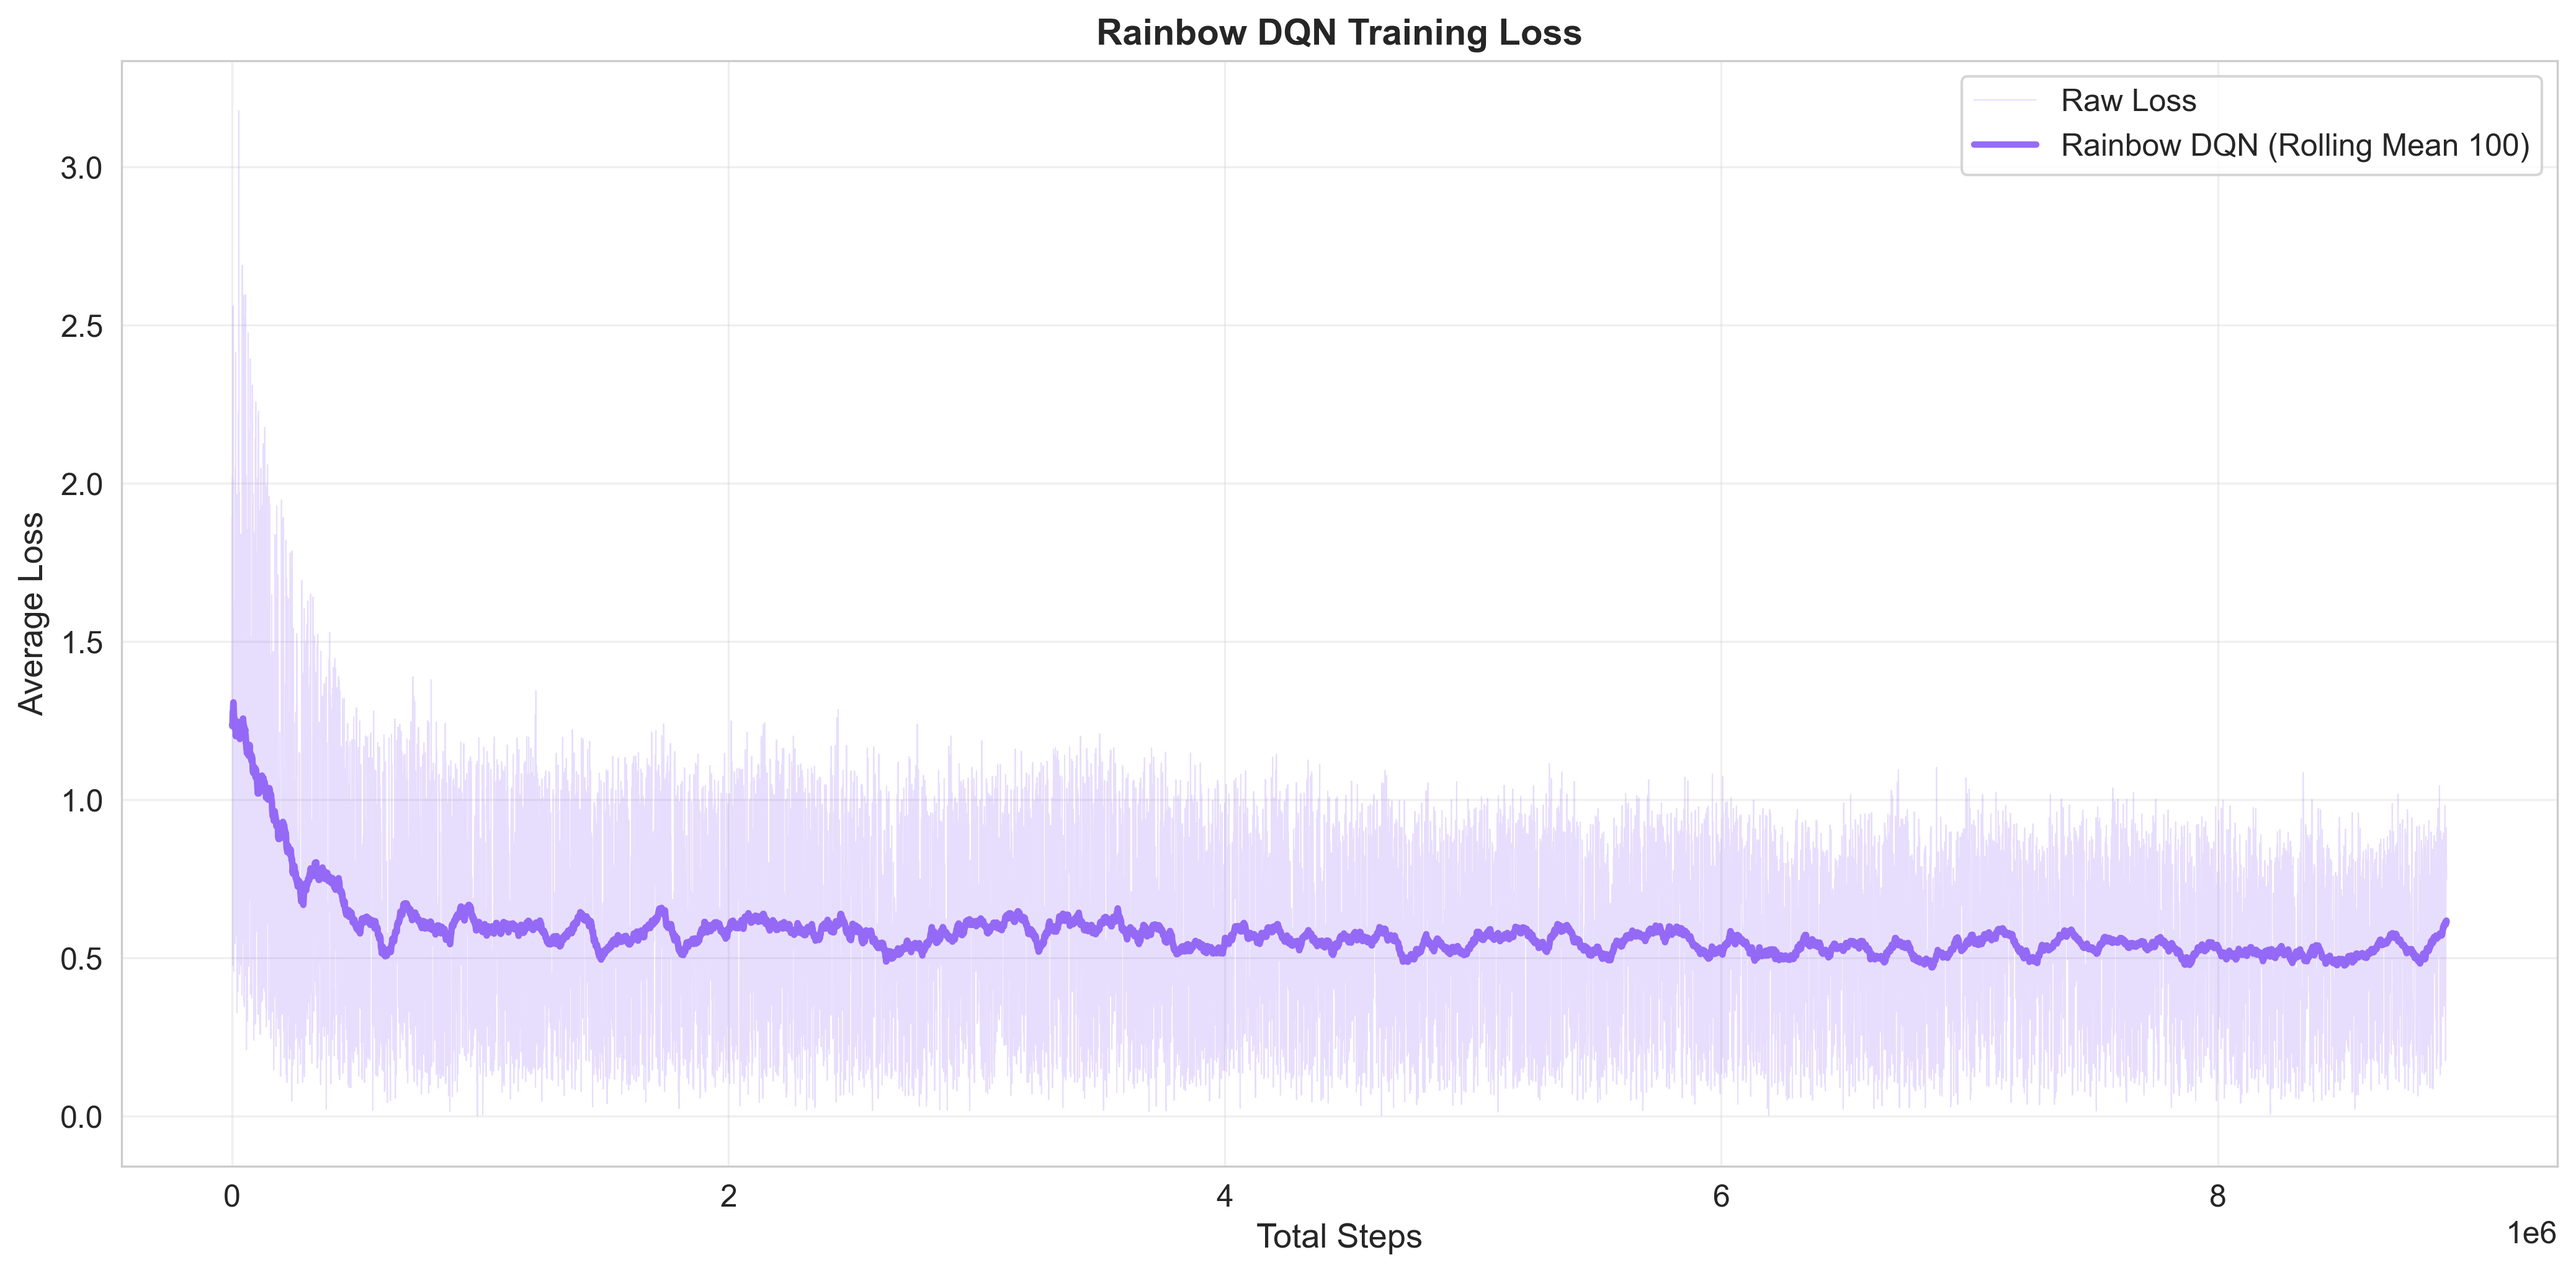
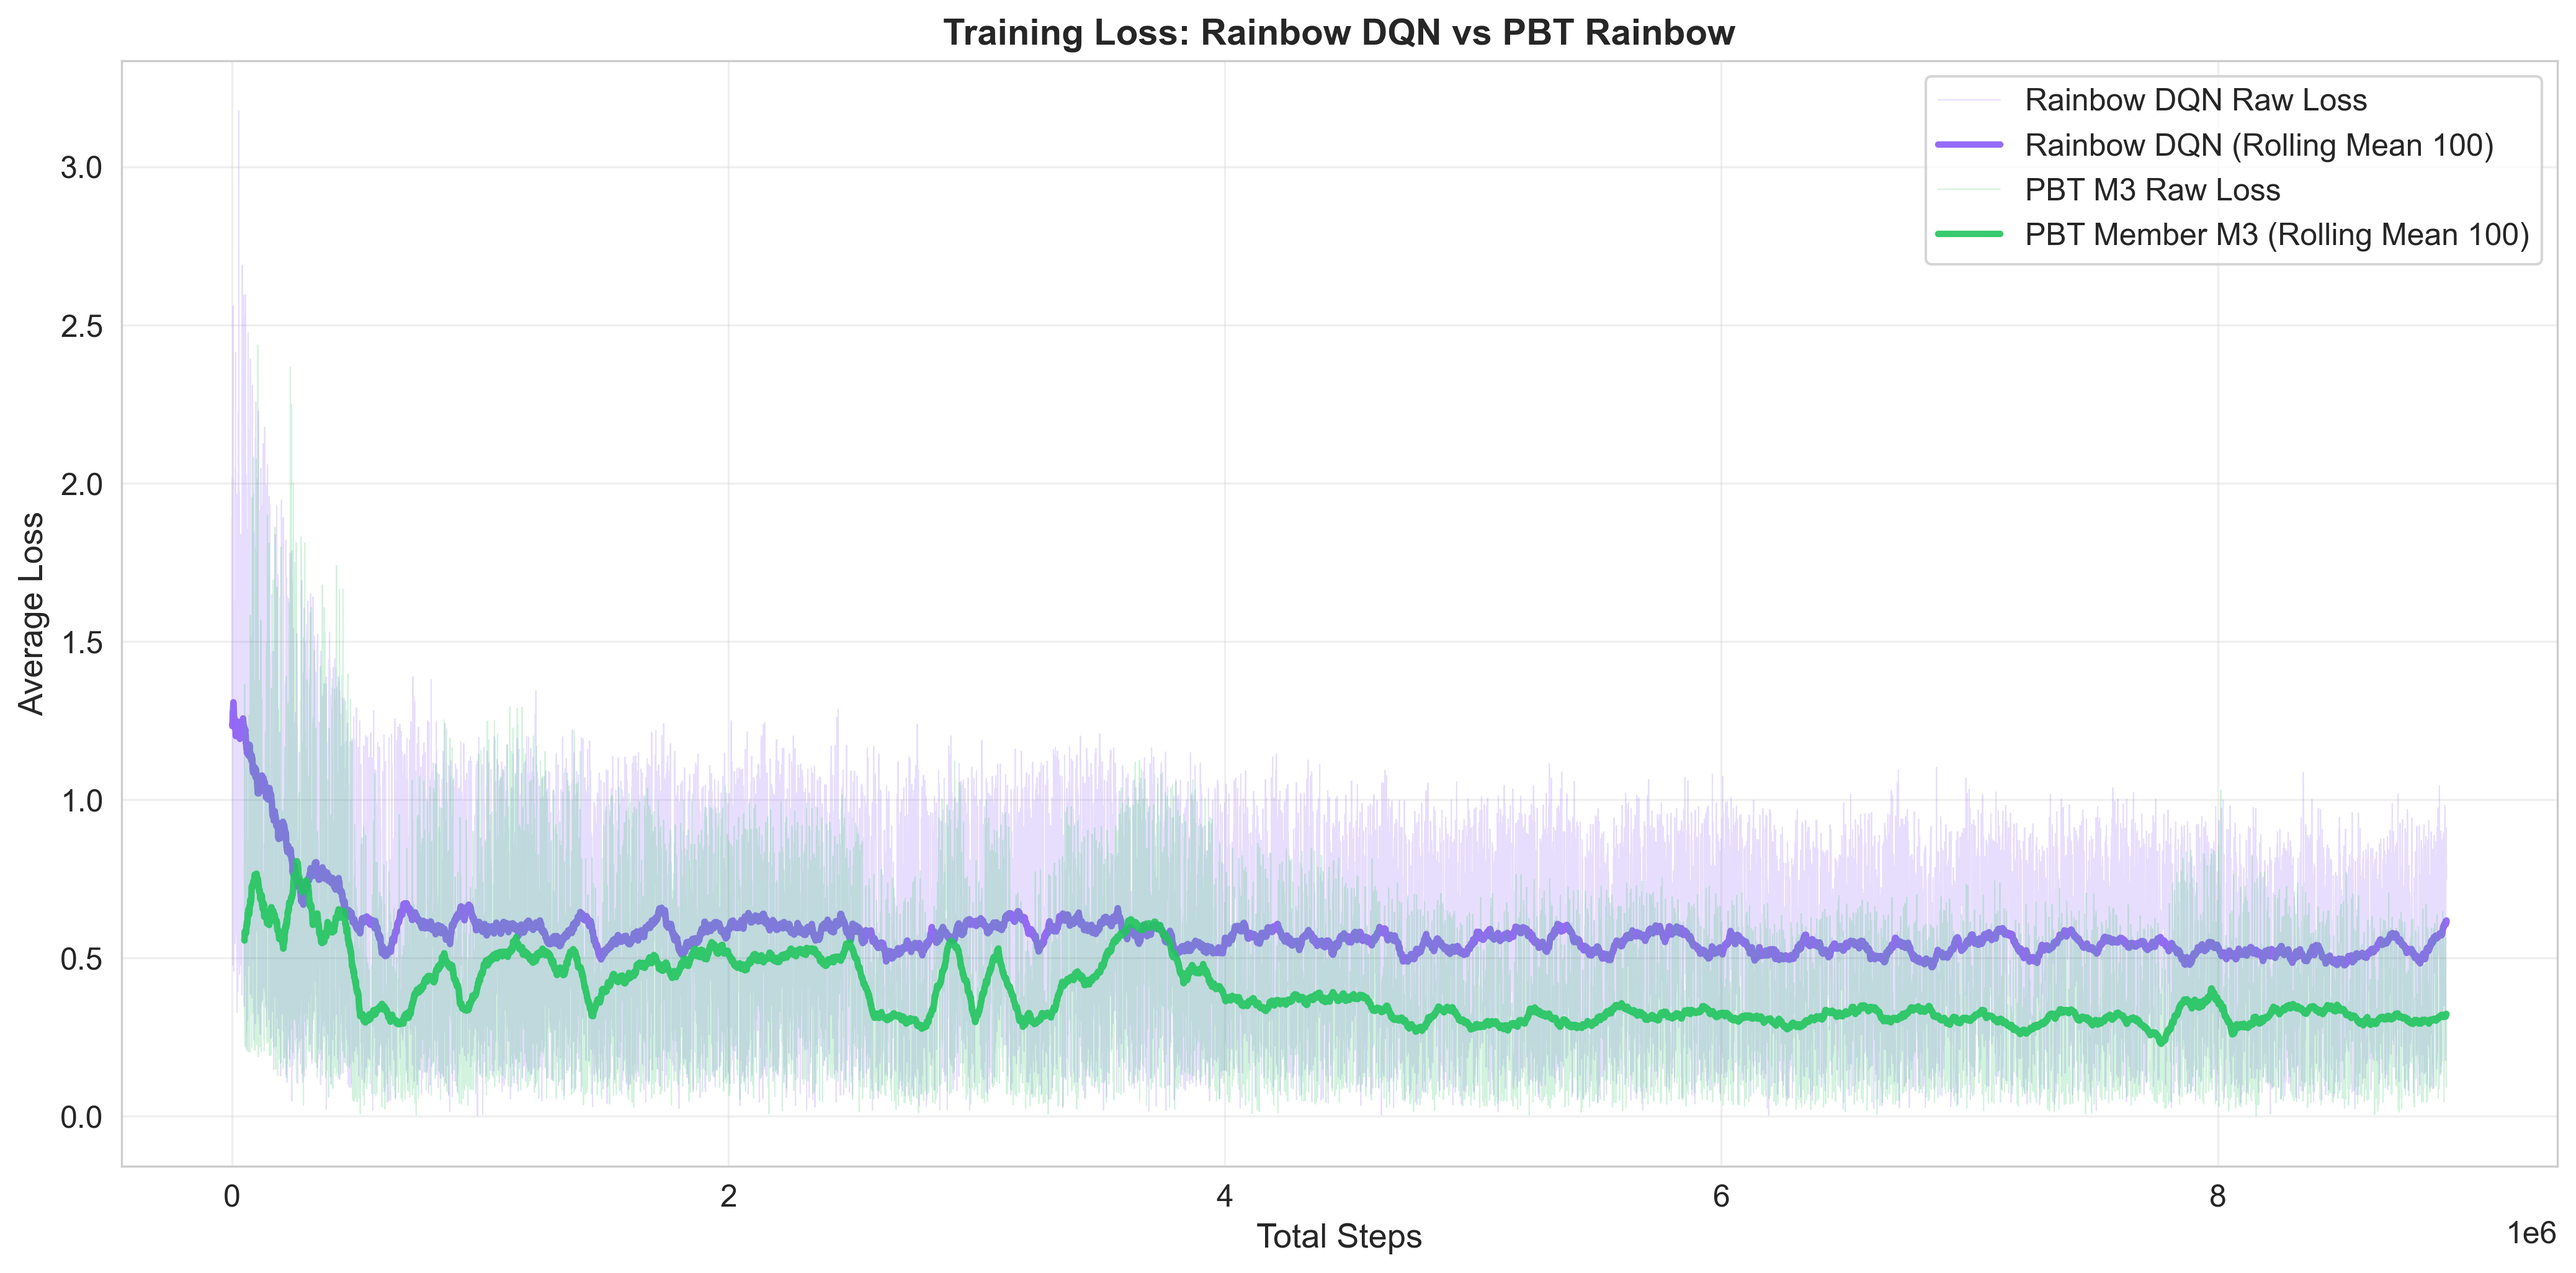
Updated loss to include rainbow pbt loss

Changed region(s): [[0.0932, 0.3743, 0.9632, 0.8733], [0.7457, 0.0624, 0.9942, 0.2183], [0.3728, 0.0, 0.6835, 0.0624]]

diff --git a/comprehensive_analysis.py b/comprehensive_analysis.py
@@ -397,25 +397,52 @@ def analyze_all_agents(data):
 def analyze_loss(data):
     """Loss Analysis"""
     rainbow = data['final_rainbow']
+    pbt_members = data['pbt_rainbow_members']
+    
+    # Find best PBT member (M3)
+    best_pbt = None
+    best_pbt_idx = None
+    if pbt_members:
+        best_pbt_idx = max(range(len(pbt_members)), key=lambda i: pbt_members[i]['mean_return_100'].iloc[-1])
+        best_pbt = pbt_members[best_pbt_idx]
     
     fig, ax = plt.subplots(figsize=(14, 7))
     
+    window = 100
+    max_steps = None
+    
     if rainbow is not None and 'avg_loss' in rainbow.columns:
         rainbow_loss = rainbow[rainbow['avg_loss'] > 0].copy()
+        max_steps = rainbow_loss['total_steps'].iloc[-1]
         
-        window = 100
         rainbow_loss['loss_smooth'] = rolling_mean_for_plot(rainbow_loss['avg_loss'].values, window=window)
         
         ax.plot(rainbow_loss['total_steps'], rainbow_loss['avg_loss'].values,
-               color=COLORS['rainbow'], linewidth=0.5, alpha=0.2, label='Raw Loss')
+               color=COLORS['rainbow'], linewidth=0.5, alpha=0.2, label='Rainbow DQN Raw Loss')
         
         ax.plot(rainbow_loss['total_steps'], rainbow_loss['loss_smooth'],
                label=f'Rainbow DQN (Rolling Mean {window})', color=COLORS['rainbow'], 
                linewidth=2.5, alpha=0.9)
     
+    if best_pbt is not None and 'avg_loss' in best_pbt.columns:
+        pbt_loss = best_pbt[best_pbt['avg_loss'] > 0].copy()
+        
+        # Limit PBT to same max steps as Rainbow DQN
+        if max_steps is not None:
+            pbt_loss = pbt_loss[pbt_loss['total_steps'] <= max_steps].copy()
+        
+        pbt_loss['loss_smooth'] = rolling_mean_for_plot(pbt_loss['avg_loss'].values, window=window)
+        
+        ax.plot(pbt_loss['total_steps'], pbt_loss['avg_loss'].values,
+               color=COLORS['success'], linewidth=0.5, alpha=0.2, label=f'PBT M{best_pbt_idx} Raw Loss')
+        
+        ax.plot(pbt_loss['total_steps'], pbt_loss['loss_smooth'],
+               label=f'PBT Member M{best_pbt_idx} (Rolling Mean {window})', color=COLORS['success'], 
+               linewidth=2.5, alpha=0.9)
+    
     ax.set_xlabel('Total Steps', fontsize=13)
     ax.set_ylabel('Average Loss', fontsize=13)
-    ax.set_title('Rainbow DQN Training Loss', fontsize=14, fontweight='bold')
+    ax.set_title('Training Loss: Rainbow DQN vs PBT Rainbow', fontsize=14, fontweight='bold')
     ax.legend(fontsize=12)
     ax.grid(True, alpha=0.3)
     
